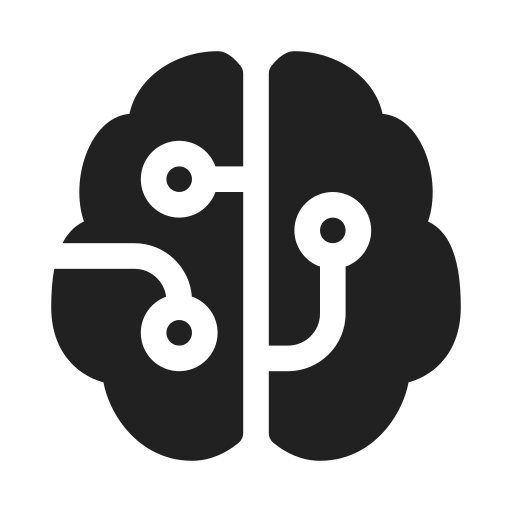
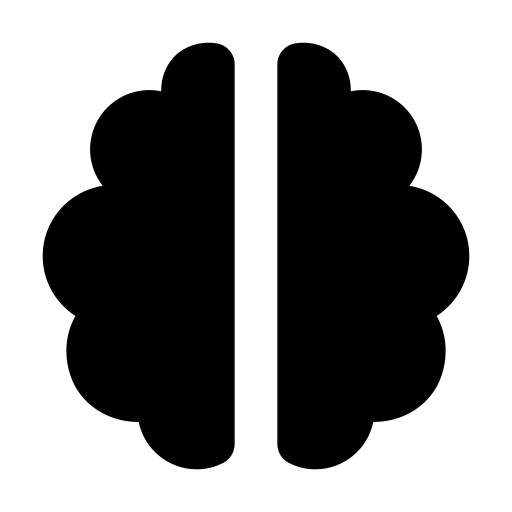
new feature added: dark mode

diff --git a/about-me.html b/about-me.html
@@ -125,28 +125,28 @@
         </section>
         <section class="grid-system-4 w-900">
             <section class="card small-card justify">
-                <img class="box margin-auto" src="assets/dog.png" alt="hobbies1">
+                <img class="box margin-auto hobbies" src="assets/dog.png" alt="hobbies1">
                 <p class="bold center">My dog</p>
                 <p>Lorem ipsum dolor sit amet consectetur adipisicing elit. Aspernatur eum rerum provident laudantium
                     modi veniam accusamus reiciendis id itaque iure qui, corrupti repellendus ipsam neque! Fuga
                     architecto laborum vitae quibusdam?</p>
             </section>
             <section class="card small-card justify">
-                <img class="box margin-auto" src="assets/board-game.png" alt="hobbies2">
+                <img class="box margin-auto hobbies" src="assets/board-game.png" alt="hobbies2">
                 <p class="bold center">Playing</p>
                 <p>Lorem ipsum dolor, sit amet consectetur adipisicing elit. Maxime dignissimos et, magnam aperiam
                     distinctio, asperiores est laborum deserunt reprehenderit, praesentium accusamus dolorum illum.
                     Voluptatum non mollitia in neque dolore corporis!</p>
             </section>
             <section class="card small-card justify">
-                <img class="box margin-auto" src="assets/coding.png" alt="hobbies3">
+                <img class="box margin-auto hobbies" src="assets/coding.png" alt="hobbies3">
                 <p class="bold center">Coding</p>
                 <p>Lorem ipsum, dolor sit amet consectetur adipisicing elit. Rem, provident? Amet quam id veritatis,
                     similique distinctio quibusdam, velit ex sed impedit natus corporis vel. Iste iusto nobis veritatis
                     inventore quibusdam.</p>
             </section>
             <section class="card small-card justify">
-                <img class="box margin-auto" src="assets/plot-reading.png" alt="hobbies4">
+                <img class="box margin-auto hobbies" src="assets/plot-reading.png" alt="hobbies4">
                 <p class="bold center">Wierd stuff</p>
                 <p>Lorem ipsum dolor sit amet consectetur adipisicing elit. Temporibus facilis, repellat animi eum ab
                     dolores neque, pariatur, molestias inventore soluta voluptatum a deleniti fugit natus ullam modi

diff --git a/style.css b/style.css
@@ -678,3 +678,77 @@ footer{
         font-size: 1.5rem;
     }
 }
+
+/* DARK THEME */
+@media (prefers-color-scheme: dark) {
+    body {
+        background-color: rgba(45, 45, 45, 1);
+        color: white;
+    }
+
+    .baby-pink {
+        background-color: rgb(243, 162, 200);
+    }
+
+    .baby-pink-light {
+        background-color: rgba(45, 45, 45, 1);
+        border: 2px solid rgb(243, 162, 200);
+    }
+
+    .main-nav {
+        background-color: rgba(45, 45, 45, 1);
+    }
+
+    .main-nav li a {
+        color: white;
+    }
+
+    .main-nav li a:hover {
+        color: rgb(254, 175, 210);
+    }
+
+    #main-toggle{
+        border: 1px solid rgba(255, 255, 255, 0.6);
+        background-color: rgba(45, 45, 45, 1);
+    }
+    
+    .nav-icon{
+        background-color: rgba(255, 255, 255, 0.6);
+    }
+    
+    .nav-icon::before,
+    .nav-icon::after{
+        background-color: rgba(255, 255, 255, 0.6);
+    }
+
+    .button-outline{
+        border: 2px solid rgb(254, 175, 210);
+        color: white;
+    }
+
+    .button-outline:hover, .button-outline:active{
+        border: 2px solid rgb(254, 175, 210);
+        background-color: rgb(254, 175, 210);
+    }
+
+    .card{
+        box-shadow: 0 0px 0px; 
+        border: 2px solid rgb(254, 175, 210);
+    }
+
+    .logo{
+        background-color: white;
+        padding: 2px;
+        border-radius: 4px;
+    }
+
+    .hobbies{
+        background-color: white;
+        border-radius: 100%;
+        padding: 10px;
+    }
+
+    footer{
+        color: white;
+    }
+}
